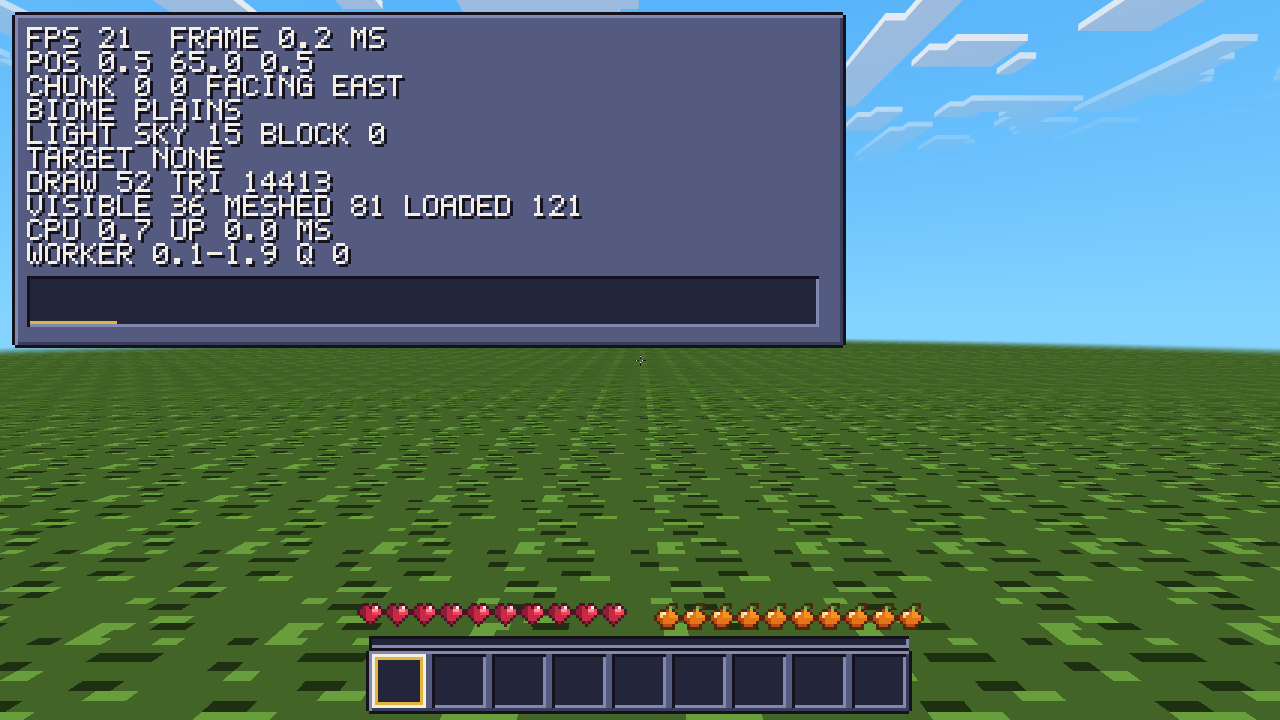
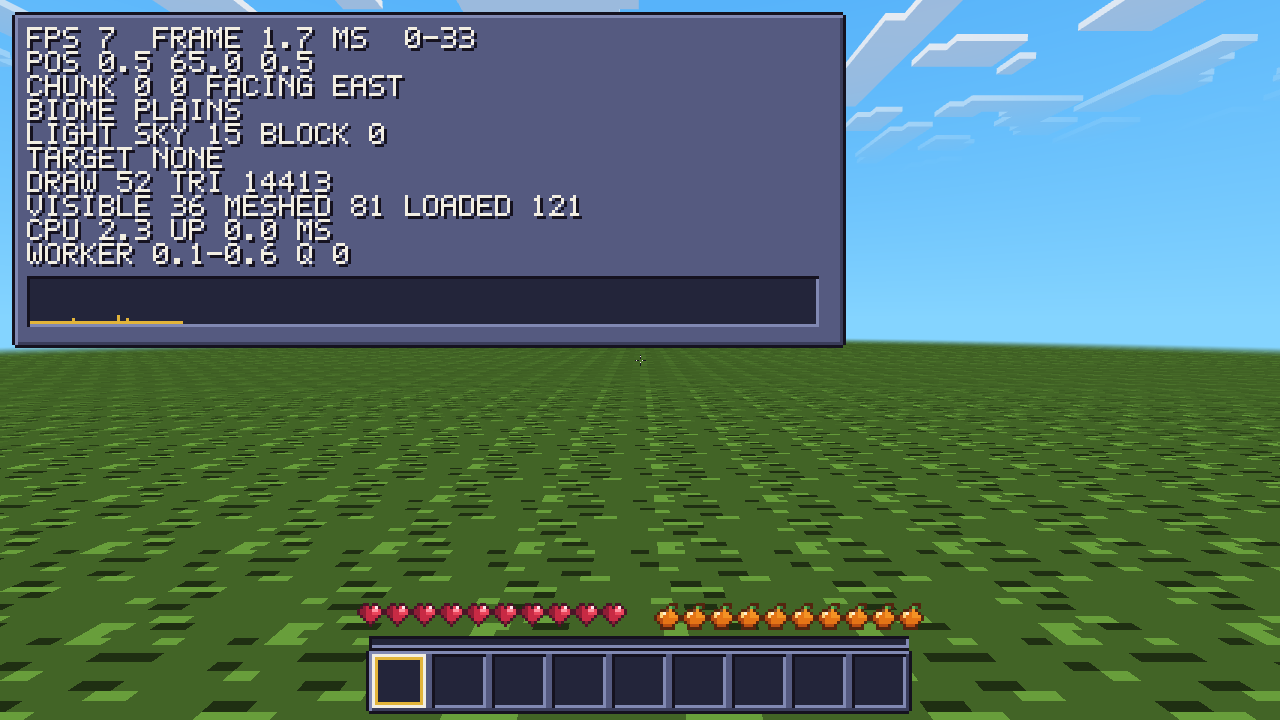
M09c: improve F3 frame-time graph

diff --git a/src/ui/hud.ts b/src/ui/hud.ts
@@ -1,5 +1,6 @@
 import type { InputEngine } from '../engine/input';
 import type { PlayerController } from '../engine/player-controller';
+import { MAX_RECENT_FRAME_SAMPLES } from '../engine/frame-stats';
 import { items } from '../gameplay/items';
 import type { Player } from '../entity/player';
 import { displayName, drawText, textWidth } from './pixel-font';
@@ -51,7 +52,7 @@ const ORANGE_PALETTE = {
 } as const;
 const HEART_HIGHLIGHTS = new Set(['6,1', '5,2', '6,2']);
 const ORANGE_HIGHLIGHTS = new Set(['2,3', '3,3', '2,4']);
-const ORANGE_BLUSH = new Set(['3,3', '3,4']);
+const ORANGE_BLUSH = new Set(['3,3']);
 const ARMOR: readonly string[] = [
   '00111100',
   '01111110',
@@ -63,6 +64,7 @@ const ARMOR: readonly string[] = [
 ];
 const BUBBLE: readonly string[] = ['001100', '010010', '100001', '100001', '010010', '001100'];
 const SLOT_STEP = 20;
+const FRAME_GRAPH_MAX_MS = 33;
 
 export interface HudSnapshot {
   mode: string;
@@ -388,7 +390,10 @@ function drawGraph(
   samples.slice(-width + 2).forEach((ms, i) => {
     const barHeight = Math.max(
       1,
-      Math.min(height - 2, Math.round((Math.min(ms, 50) / 50) * (height - 2))),
+      Math.min(
+        height - 2,
+        Math.round((Math.min(ms, FRAME_GRAPH_MAX_MS) / FRAME_GRAPH_MAX_MS) * (height - 2)),
+      ),
     );
     fillRect(ctx, x + 1 + i, y + height - 1 - barHeight, 1, barHeight, UI.accent, s);
   });
@@ -413,7 +418,7 @@ function drawDebugOverlay(
   }
   const [x, y, z] = sample.position;
   const latestFrame = sample.frameTimes[sample.frameTimes.length - 1] ?? 0;
-  line(`FPS ${sample.fps}  FRAME ${latestFrame.toFixed(1)} MS`, 0);
+  line(`FPS ${sample.fps}  FRAME ${latestFrame.toFixed(1)} MS (0-33)`, 0);
   line(`POS ${x.toFixed(1)} ${y.toFixed(1)} ${z.toFixed(1)}`, 1);
   line(`CHUNK ${sample.chunk[0]} ${sample.chunk[1]} FACING ${sample.facing}`, 2);
   line(`BIOME ${sample.biome.replace(/_/g, ' ').toUpperCase()}`, 3);
@@ -432,11 +437,11 @@ function drawDebugOverlay(
     `WORKER ${sample.workers.genMsP95.toFixed(1)}-${sample.workers.meshMsP95.toFixed(1)} Q ${sample.workers.queueLength}`,
     9,
   );
-  graphCanvas.width = 264 * s;
+  graphCanvas.width = MAX_RECENT_FRAME_SAMPLES * s;
   graphCanvas.height = 17 * s;
   const graphContext = graphCanvas.getContext('2d')!;
   graphContext.imageSmoothingEnabled = false;
-  drawGraph(graphContext, sample.frameTimes, 0, 0, 264, 17, s);
+  drawGraph(graphContext, sample.frameTimes, 0, 0, MAX_RECENT_FRAME_SAMPLES, 17, s);
   ctx.drawImage(graphCanvas, 9 * s, 92 * s);
 }
 
@@ -462,7 +467,6 @@ export class Hud {
     private readonly input: InputEngine,
     private readonly controller: () => PlayerController | null,
     private readonly iconSource: () => IconSheet,
-    private readonly debugEnabled: boolean,
     private readonly getDebugSnapshot: () => DebugOverlaySnapshot | null,
     private readonly isSubmerged: () => boolean,
     private readonly screenOpen: () => boolean,
@@ -539,7 +543,7 @@ export class Hud {
   private readonly onKeyDown = (event: KeyboardEvent): void => {
     if (event.code === 'F3') {
       event.preventDefault();
-      if (!event.repeat && this.debugEnabled && !this.input.captured) {
+      if (!event.repeat && !this.input.captured) {
         this.debugOpen = !this.debugOpen;
         this.lastDebugUpdate = -Infinity;
         if (this.debugOpen && this.controller()?.player) {

diff --git a/tests/unit/m09c-hud.test.ts b/tests/unit/m09c-hud.test.ts
@@ -1,8 +1,8 @@
-import { expect, it } from 'vitest';
+import { expect, it, vi } from 'vitest';
 import armorItems from '../../data/items/armor.json';
-import { FrameStats } from '../../src/engine/frame-stats';
+import { FrameStats, MAX_RECENT_FRAME_SAMPLES } from '../../src/engine/frame-stats';
 import { Player } from '../../src/entity/player';
-import { equippedArmorPoints } from '../../src/ui/hud';
+import { equippedArmorPoints, Hud } from '../../src/ui/hud';
 
 it('gives armor items valid display points with full sets capped at 20', () => {
   const copper = ['copper_helmet', 'copper_chestplate', 'copper_leggings', 'copper_boots'];
@@ -34,11 +34,41 @@ it('totals armor from the four equipped slots only', () => {
 
 it('exposes recent frame CPU samples as a bounded ring buffer', () => {
   const stats = new FrameStats();
-  for (let frame = 1; frame <= 125; frame++) stats.record(frame, 0, 0);
-  expect(stats.recentFrameTimes()).toHaveLength(120);
-  expect(stats.recentFrameTimes(3)).toEqual([123, 124, 125]);
+  for (let frame = 1; frame <= MAX_RECENT_FRAME_SAMPLES + 5; frame++) stats.record(frame, 0, 0);
+  expect(stats.recentFrameTimes()).toHaveLength(MAX_RECENT_FRAME_SAMPLES);
+  expect(stats.recentFrameTimes(3)).toEqual([
+    MAX_RECENT_FRAME_SAMPLES + 3,
+    MAX_RECENT_FRAME_SAMPLES + 4,
+    MAX_RECENT_FRAME_SAMPLES + 5,
+  ]);
   stats.reset();
   expect(stats.recentFrameTimes()).toEqual([]);
+});
+
+it('toggles F3 without a debug-mode gate and prevents its browser default', () => {
+  const hud = new Hud(
+    { captured: false } as never,
+    () => null,
+    () => null as never,
+    () => null,
+    () => false,
+    () => false,
+  );
+  const event = {
+    code: 'F3',
+    repeat: false,
+    preventDefault: vi.fn(),
+  } as unknown as KeyboardEvent;
+  const internals = hud as unknown as {
+    onKeyDown(event: KeyboardEvent): void;
+    debugOpen: boolean;
+  };
+
+  internals.onKeyDown(event);
+  expect(internals.debugOpen).toBe(true);
+  expect(event.preventDefault).toHaveBeenCalledOnce();
+  internals.onKeyDown(event);
+  expect(internals.debugOpen).toBe(false);
 });
 
 it('adds XP fields to a new player at their zero defaults and snapshot', () => {

diff --git a/tests/e2e/m09c.spec.ts b/tests/e2e/m09c.spec.ts
@@ -90,6 +90,36 @@ async function crosshairShape(page: import('@playwright/test').Page) {
   });
 }
 
+async function frameGraphPlotColumns(page: import('@playwright/test').Page): Promise<number> {
+  return page.evaluate(() => {
+    const canvas = document.querySelector<HTMLCanvasElement>('#f3-overlay');
+    if (!canvas) return 0;
+    const scale = Math.max(
+      1,
+      Math.min(Math.floor(canvas.width / 320), Math.floor(canvas.height / 240)),
+    );
+    const pixels = canvas
+      .getContext('2d')!
+      .getImageData(10 * scale, 93 * scale, 262 * scale, 15 * scale);
+    let litColumns = 0;
+    const center = Math.floor(scale / 2);
+    for (let x = 0; x < 262; x++) {
+      for (let y = 0; y < 15; y++) {
+        const index = ((y * scale + center) * pixels.width + x * scale + center) * 4;
+        if (
+          pixels.data[index] === 226 &&
+          pixels.data[index + 1] === 180 &&
+          pixels.data[index + 2] === 58
+        ) {
+          litColumns++;
+          break;
+        }
+      }
+    }
+    return litColumns;
+  });
+}
+
 test('survival HUD draws the requested health, hunger, armor and XP state', async ({
   page,
   assertAndSaveScreenshot,
@@ -205,6 +235,8 @@ test('F3 shows stats and a frame graph with the current getBiome value', async (
   ).toBe(true);
   const overlay = page.locator('#f3-overlay');
   await expect(overlay).toBeVisible();
+  await page.waitForTimeout(3000);
+  await expect.poll(() => frameGraphPlotColumns(page), { timeout: 5000 }).toBeGreaterThan(30);
   await expect
     .poll(() =>
       page.evaluate(() => {

diff --git a/src/engine/frame-stats.ts b/src/engine/frame-stats.ts
@@ -20,6 +20,7 @@ export interface FrameStatsSnapshot {
 
 /** Oldest samples are dropped beyond this many frames (an hour at 60 fps is 216000). */
 const MAX_SAMPLES = 100_000;
+export const MAX_RECENT_FRAME_SAMPLES = 264;
 
 export function percentile95(samples: ArrayLike<number>): number {
   if (samples.length === 0) return 0;
@@ -38,7 +39,7 @@ export class FrameStats {
   private upload: number[] = [];
   private glCheck: number[] = [];
   private pump: number[] = [];
-  private readonly recentFrames = new Array<number>(120);
+  private readonly recentFrames = new Array<number>(MAX_RECENT_FRAME_SAMPLES);
   private recentFrameCount = 0;
   private nextRecentFrame = 0;
 
@@ -67,7 +68,7 @@ export class FrameStats {
   }
 
   /** A copy of the latest frame CPU samples for small diagnostic graphs. */
-  recentFrameTimes(limit = 120): number[] {
+  recentFrameTimes(limit = MAX_RECENT_FRAME_SAMPLES): number[] {
     if (!Number.isInteger(limit) || limit < 0)
       throw new Error('Frame history limit must be non-negative');
     const count = Math.min(limit, this.recentFrameCount);

diff --git a/src/main.ts b/src/main.ts
@@ -96,7 +96,6 @@ function main() {
     input,
     () => worldManager.playerController,
     icons,
-    debug,
     (): DebugOverlaySnapshot | null => {
       const world = worldManager.world;
       const controller = worldManager.playerController;
@@ -127,7 +126,7 @@ function main() {
       }
       return {
         fps: renderStats.fps,
-        frameTimes: frameStats.recentFrameTimes(120),
+        frameTimes: frameStats.recentFrameTimes(),
         position: [...player.pos],
         chunk: [Math.floor(x / 16), Math.floor(z / 16)],
         facing: directions[Math.round(angle) % directions.length]!,

diff --git a/decisions/M09c-hud.md b/decisions/M09c-hud.md
@@ -20,9 +20,9 @@
    | **Iron full set** | **15** |
 
 4. **XP state and debug setters.** Add `xpLevel` (non-negative integer) and `xpProgress` (0–1) to `Player`, both defaulting to 0. `src/debug/api/xp.ts` registers `setXp(level, progress)`; it validates and updates only the player's in-memory XP fields. No persistence code is changed. `src/debug/api/vitals.ts` adds `setVitals({ health?, hunger?, air? })` so M09c's visual states can be set through the supported debug API before M11a implements survival progression.
-5. **F3 diagnostics.** F3 prevents the browser default and toggles the overlay only in `?debug=1` mode, as required by SPEC §3.2. Use the existing debug concepts in SPEC §4: render and worker statistics, player position, `getBiome`, `getLight`, and `raycast` target data. `data-biome` contains the same value returned by `getBiome(floor(player.x), floor(player.z))`. The frame graph uses the most recent CPU frame samples recorded by `frameStats`.
-6. **Redraw cadence.** Keep inventory, HUD, item popup, and F3 on separate canvases. Redraw the HUD only when its rendered values or viewport dimensions change. Let CSS fade the popup without redrawing the HUD. Refresh F3 text and graph at most once every 250 ms. Frame history is stored in a fixed-size ring buffer to keep per-frame recording constant-time.
-7. **Status-icon art.** Draw hearts and hunger icons as 9×9 pixel silhouettes with 1-pixel outlines and palettes independent of the shared eight-colour UI palette used for panels, slots and buttons. Hearts use a deep maroon outline, dark desaturated empty interiors, shaded red fills, and a three-pixel pink/near-white highlight on the top-right lobe; partial hearts fill from the left. The owner-approved orange hunger icon replaces carrots with a round orange body, dark brown outline, dark empty interior, shaded orange fill, a three-pixel yellow/cream highlight, and a small green leaf with a brown stem. Partial oranges fill from the left. Keep the existing UI scale, positions and 9-pixel step.
+5. **F3 diagnostics.** F3 prevents the browser default and toggles the player-facing overlay during normal play. The `?debug=1` flag continues to expose the debug API as the test hook; it does not gate F3. Use the existing diagnostic data defined in SPEC §4: render and worker statistics, player position, `getBiome`, `getLight`, and raycast target data. `data-biome` contains the same value returned by `getBiome(floor(player.x), floor(player.z))`. The frame graph uses recent CPU frame samples recorded by `frameStats` and a 0–33 ms vertical scale so a 16 ms frame is clearly visible.
+6. **Redraw cadence.** Keep inventory, HUD, item popup, and F3 on separate canvases. Redraw the HUD only when its rendered values or viewport dimensions change. Let CSS fade the popup without redrawing the HUD. Refresh F3 text and graph at most once every 250 ms. Frame history is stored in a fixed-size ring buffer with at least one sample per graph column, keeping per-frame recording constant-time.
+7. **Status-icon art.** Both status icons follow ART.md §4's item-icon rule: a clear silhouette, a 1-pixel dark outline, and their own palette of at most 12 colours. Keep those palettes separate from the shared eight-colour UI palette for panels, slots and buttons. Hearts use a deep maroon outline, dark desaturated empty interiors, shaded red fills, and a three-pixel pink/near-white highlight on the top-right lobe; partial hearts fill from the left. The owner-approved orange hunger icon replaces carrots with a round orange body, dark brown outline, dark empty interior, shaded orange fill, a three-pixel yellow/cream highlight, and a small green leaf with a brown stem. Partial oranges fill from the left. Keep the existing UI scale, positions and 9-pixel step.
 
    | Icon | Palette (hex) | Count |
    | --- | --- | ---: |
